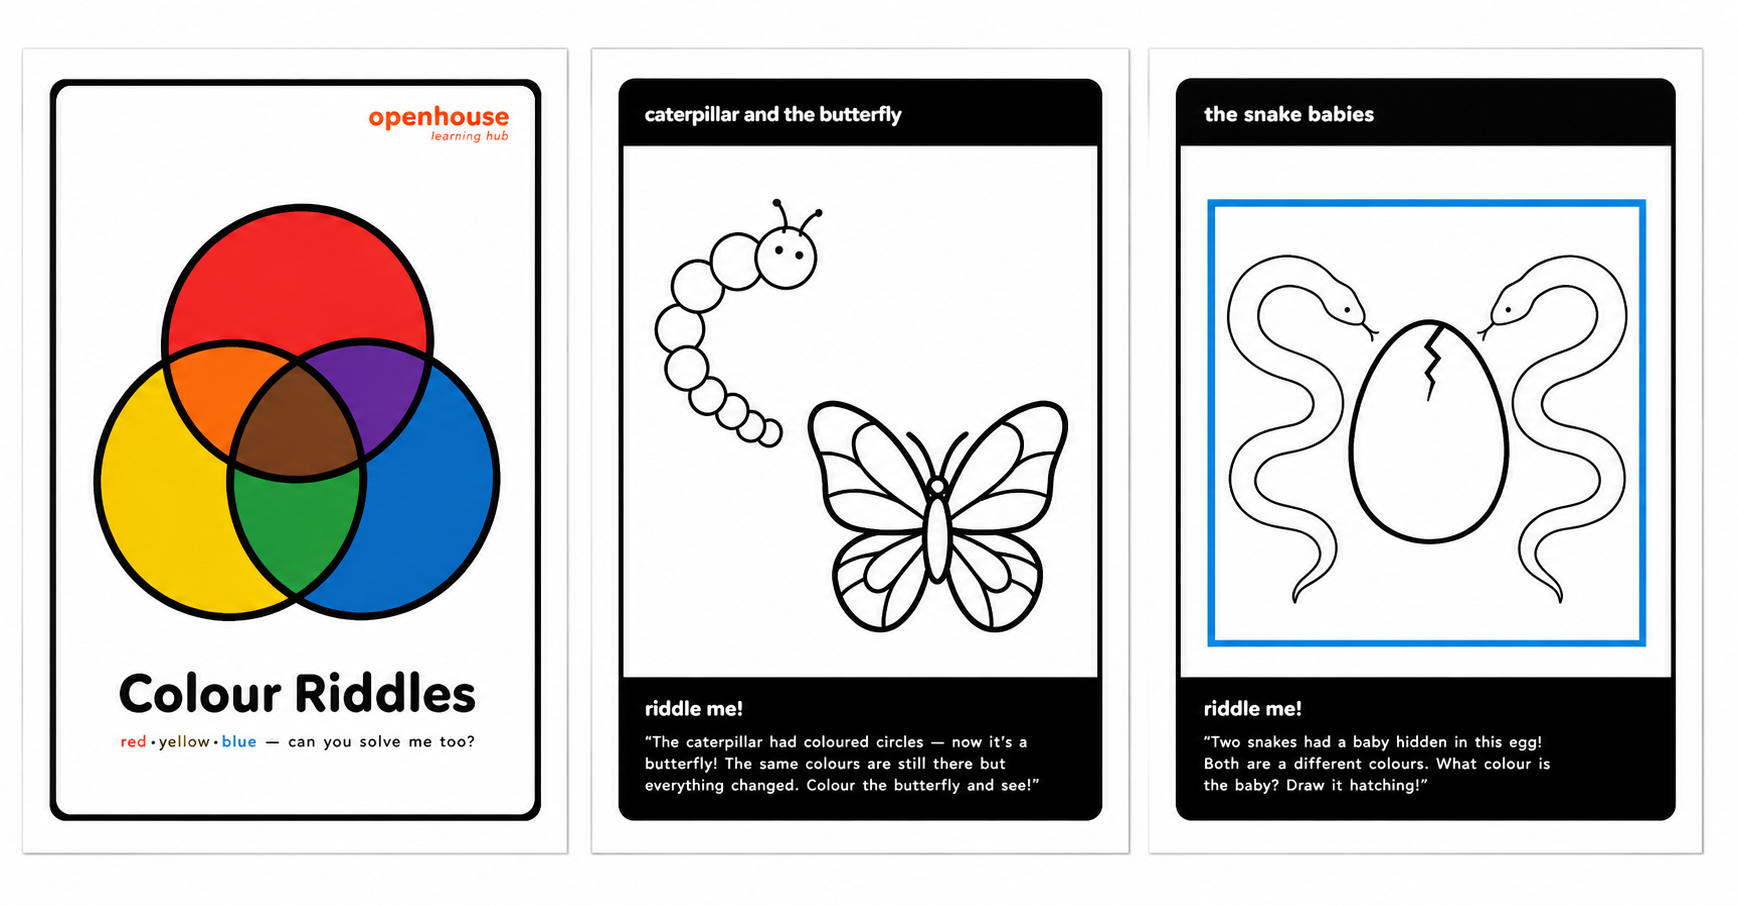
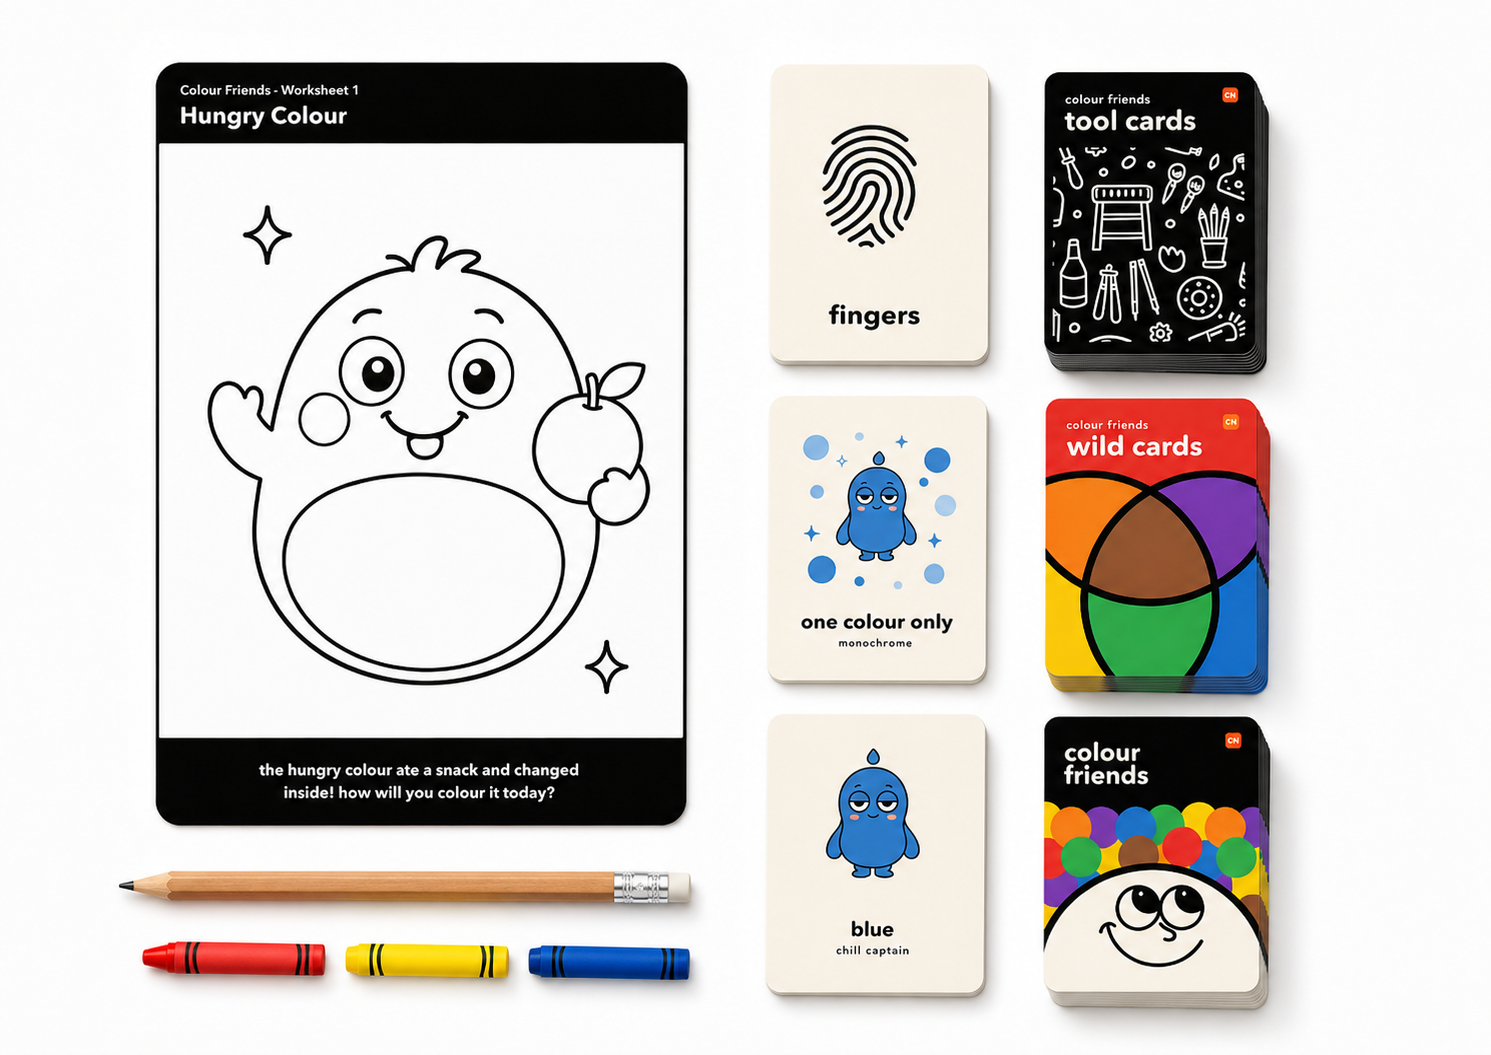
Wire 3-5 game images (story construction, colour friends, i shop texture, magna-tiles, candy sort, logical road builder); add planner rotating note
- Replaced placeholder/shared images with the real renders; gave the STEM
  trio individual images (were sharing games-trio.png).
- Planner: 'keep rotating' general rule + note that fitness & music
  strands are coming.

diff --git a/lib/content.ts b/lib/content.ts
@@ -255,10 +255,10 @@ export const ACTIVITY_IMAGES: Record<string, string> = {
   "shape-art": "/games/art-3-5/shape-art.png",
   "imagine-that-3-5": "/games/art-3-5/imagine-that.png",
   // STEM 3-5 — Logic Lab game renders
-  "ll-logical-road-builder": "/games/stem-3-5/games-trio.png",
+  "ll-logical-road-builder": "/games/stem-3-5/logical-road-builder.png",
   "ll-stitch-me": "/games/stem-3-5/stitch-me.png",
-  "ll-candy-sort": "/games/stem-3-5/games-trio.png",
-  "ll-magna-tiles": "/games/stem-3-5/games-trio.png",
+  "ll-candy-sort": "/games/stem-3-5/candy-sort.png",
+  "ll-magna-tiles": "/games/stem-3-5/magna-tiles.png",
   "ll-dot-grid": "/games/stem-3-5/dot-grid.png",
   // STEM 3-5 — Imagine Playground (LEGO Education brick activities).
   // No per-activity photos yet; reuse the IP book cover as a fallback

diff --git a/app/plan/page.tsx b/app/plan/page.tsx
@@ -171,6 +171,9 @@ export default function PlannerPage() {
 
           {/* strand chooser */}
           <h2 className="mt-6 text-[13px] font-bold text-ink-muted">1 · which strand today?</h2>
+          <p className="mt-1 text-[11px] leading-relaxed text-ink-subtle">
+            general rule: <span className="font-semibold text-ink-muted">keep rotating</span> — run a different strand each day so children get all three across the week. <span className="italic">(fitness and music strands will be added soon.)</span>
+          </p>
           <div className="mt-2 grid gap-2 sm:grid-cols-3">
             {PLANNER_STRANDS.map((s) => (
               <button